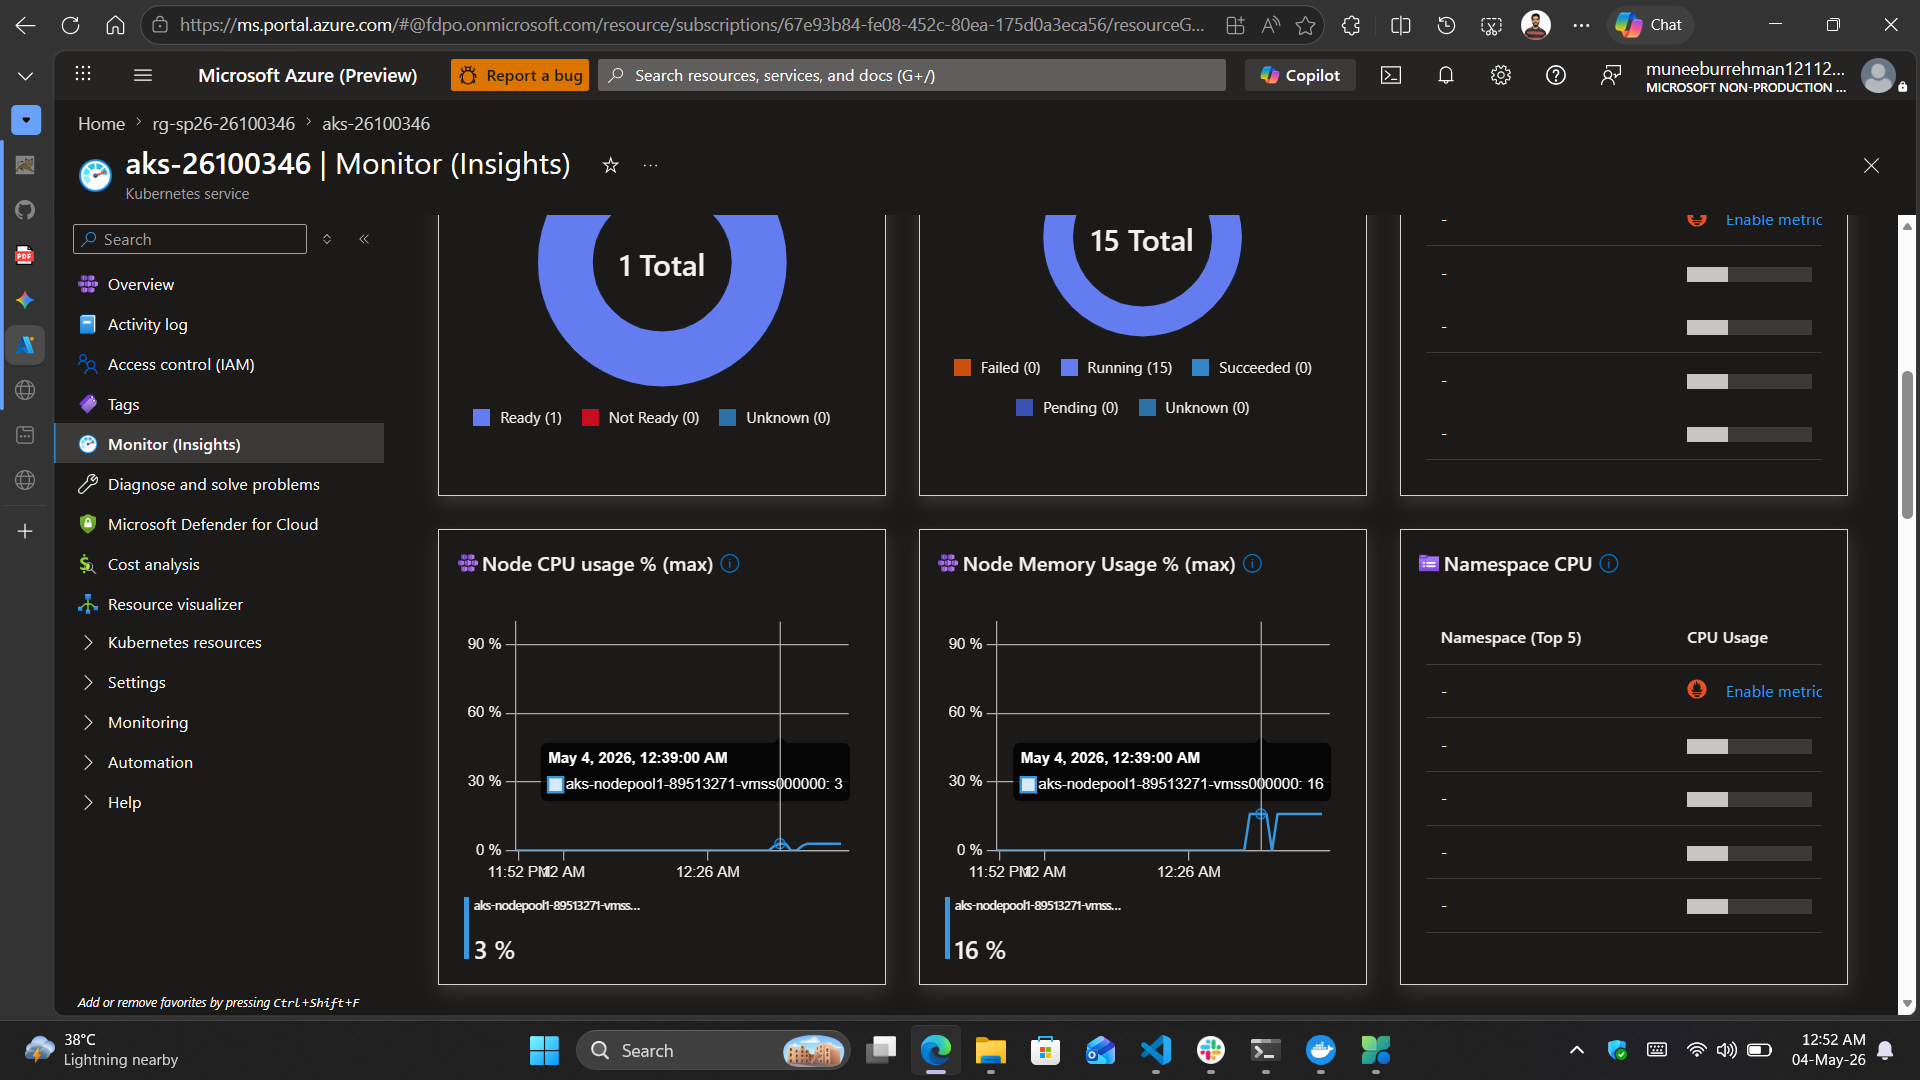
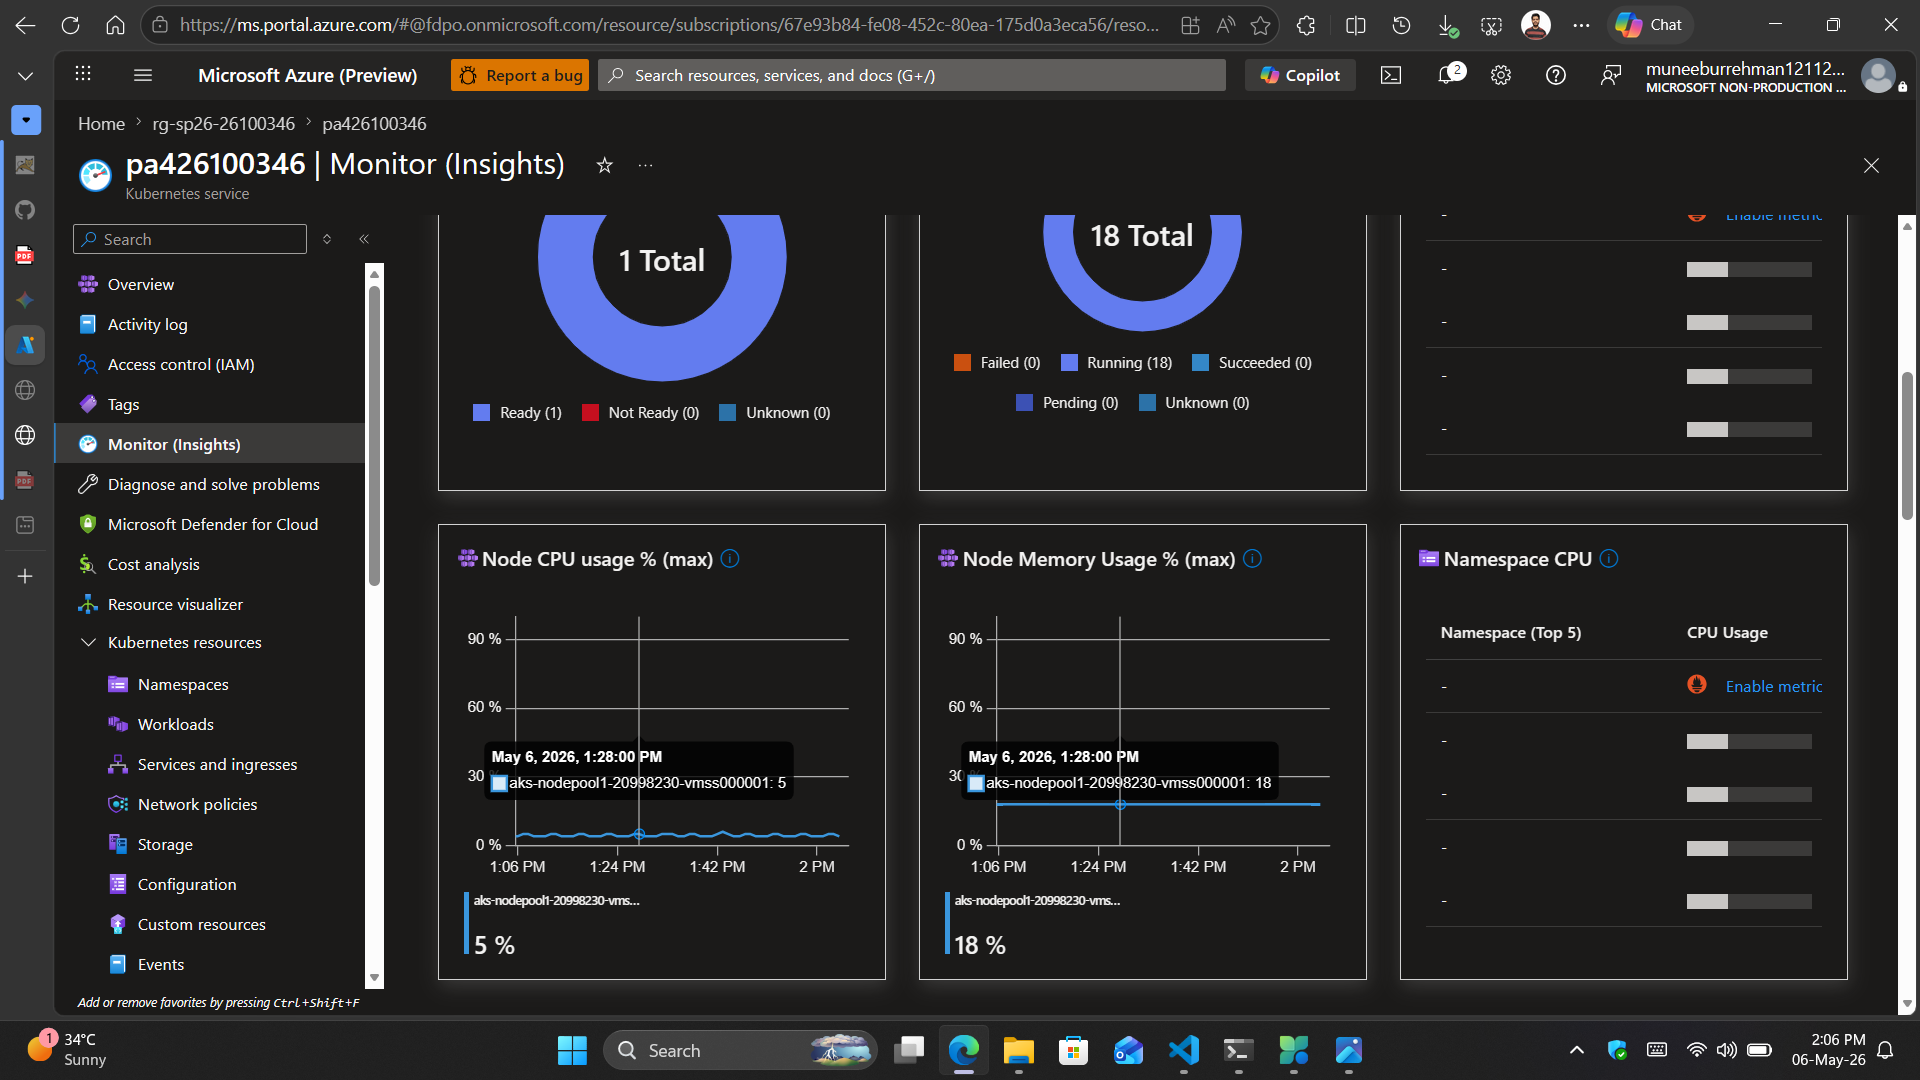
Add Task 7 screenshots and descriptions in SUBMISSION.md

diff --git a/SUBMISSION.md b/SUBMISSION.md
@@ -137,9 +137,9 @@ Description: The `Failed` status is fully expected at this stage because the orc
 
 ### Evidence 5.1: AKS Cluster
 
-<img alt="AKS Cluster Overview" src="./docs/screenshots/Task 5 AKS overview showing aks-26100346 succeeded.png">
+<img alt="AKS Cluster Overview" src="./docs/screenshots/Task 5 AKS overview showing pa426100346 succeeded.png">
 
-Description: The cluster `aks-26100346` is deployed in the UK West region with a 1-node pool in the `rg-sp26-26100346` resource group.
+Description: The cluster `pa426100346` is deployed in the UK West region with a 1-node pool in the `rg-sp26-26100346` resource group.
 
 ### Evidence 5.2: Kubernetes Nodes and Pods
 
@@ -224,7 +224,7 @@ Description:
 
 <img alt="Web App Application Settings" src="./docs/screenshots/Task 7 screenshot showing FUNCTION_START_URL and FUNCTION_STATUS_URL configured on the Web App.png">
 
-Description: TODO: Explain how the frontend starts and polls the Durable orchestration.
+Description: The frontend starts the orchestration by POSTing to the `FUNCTION_START_URL` and polls for completion using the `FUNCTION_STATUS_URL` and instance ID.
 
 ### Evidence 7.2: Happy Path UI
 
@@ -233,7 +233,7 @@ Description: TODO: Explain how the frontend starts and polls the Durable orchest
 <img alt="Happy Path UI" src="./docs/screenshots/Task 7 happy-path Completed status.png">
 <img alt="Happy Path UI" src="./docs/screenshots/Task 7 happy-path generated PDF link.png">
 
-Description: TODO: Explain the valid order payload and final result.
+Description: A valid order (`qty=2`) transitions the UI from "Running" to "Completed", finally displaying a direct blob URL to download the generated PDF receipt.
 
 ### Evidence 7.3: Backend Participation
 
@@ -242,7 +242,7 @@ Description: TODO: Explain the valid order payload and final result.
 <img alt="Blob List" src="./docs/screenshots/Task 7 participation Blob PDF evidence.png">
 <img alt="Report Job Logs" src="./docs/screenshots/Task 7 participation AKS validator evidence.png">
 
-Description: TODO: Trace the same order ID across services.
+Description: The order ID traces the request across services. The orchestrator calls the AKS validator, spawns a run-specific ACI (`ci-report-<order_id>`), and writes `<order_id>.pdf` to Blob Storage.
 
 ### Evidence 7.4: Reject Path UI
 
@@ -250,7 +250,7 @@ Description: TODO: Trace the same order ID across services.
 <img alt="Reject Path UI" src="./docs/screenshots/Task 7 rejection-path Function App Invocation.png">
 <img alt="Reject Path UI" src="./docs/screenshots/Task 7 rejection-path no ACI evidence.png">
 
-Description: TODO: Explain why no report ACI should be created for this order.
+Description: An invalid order (`qty > 100`) is rejected by AKS. The orchestrator short-circuits and halts, meaning no ACI is provisioned and compute costs are saved.
 
 <img alt="All Resources" src="./docs/screenshots/Task 7 resource group showing all deployed resources.png">
 